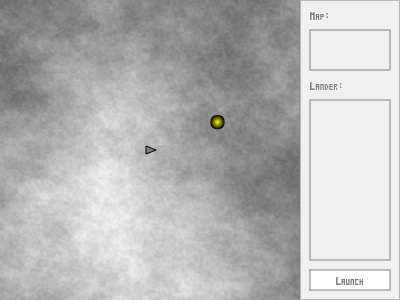
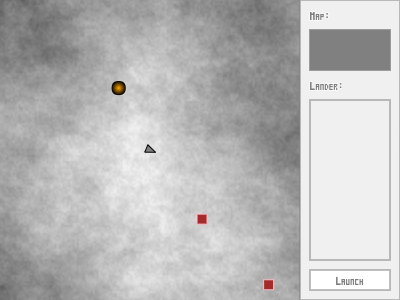
Fixed bugs with planet surface and station docks.  Updated screenshots.

diff --git a/Source/ShipComponentDefn.js b/Source/ShipComponentDefn.js
@@ -1,9 +1,9 @@
 
-function ShipComponentDefn(name, value, applyToPlayer)
+function ShipComponentDefn(name, value, applyToFlagship)
 {
 	this.name = name;
 	this.value = value;
-	this.applyToPlayer = applyToPlayer;
+	this.applyToFlagship = applyToFlagship;
 }
 {
 	ShipComponentDefn.Instances = function()
@@ -18,7 +18,7 @@ function ShipComponentDefn(name, value, applyToPlayer)
 
 	function ShipComponentDefn_Instances()
 	{
-		var noEffect = function applyToPlayer(player) {};
+		var noEffect = function applyToFlagship(player) {};
 
 		this.CargoHold = new ShipComponentDefn("Cargo Hold", 100, noEffect);
 		this.CrewHabitat = new ShipComponentDefn("Crew Habitat", 100, noEffect);
@@ -26,7 +26,7 @@ function ShipComponentDefn(name, value, applyToPlayer)
 		(
 			"Fuel Tank",
 			100, // value
-			function applyToPlayer(player) { player._fuelMax += 100; }
+			function applyToFlagship(player) { player._fuelMax += 100; }
 		);
 		this.IonCannon = new ShipComponentDefn("Ion Cannon", 100, noEffect);
 		this.FusionThruster = new ShipComponentDefn("Fusion Thruster", 100, noEffect);

diff --git a/Source/Player.js b/Source/Player.js
@@ -24,26 +24,6 @@ function Player(name, credit, flagship, factionsKnownNames, shipGroup)
 		return this.flagship.componentNames.length + "/" + this.flagship.componentsMax;
 	}
 
-	Player.prototype.fuelCurrentOverMax = function()
-	{
-		return this.fuel + "/" + this.fuelMax();
-	}
-
-	Player.prototype.fuelMax = function()
-	{
-		if (this._fuelMax == null)
-		{
-			this._fuelMax = 0;
-			var components = this.flagship.components();
-			for (var i = 0; i < components.length; i++)
-			{
-				var component = components[i];
-				component.applyToPlayer(this);
-			}
-		}
-		return this._fuelMax;
-	}
-
 	Player.prototype.shipsCurrentOverMax = function()
 	{
 		return this.shipGroup.ships.length + "/" + this.shipsMax;

diff --git a/Source/PlaceStationDock.js b/Source/PlaceStationDock.js
@@ -128,7 +128,7 @@ function PlaceStationDock(world, placeStation)
 			(containerLeftSize.y - labelSize.y - buttonSizeShips.y - marginSize.y * 4)
 		); // size
 
-		var shipComponentsInstalled = player.flagshipComponents();
+		var shipComponentsInstalled = player.flagship.components();
 
 		var shipComponentDefnsAvailable = ShipComponentDefn.Instances()._All;
 
@@ -586,7 +586,7 @@ function PlaceStationDock(world, placeStation)
 					new Coords(marginSize.x * 3.5, marginSize.y * 2 + labelSize.y),
 					labelSize,
 					false, // isTextCentered
-					new DataBinding(player, "fuelCurrentOverMax()"),
+					new DataBinding(player, "flagship.fuelCurrentOverMax()"),
 					fontHeightShort
 				),
 

diff --git a/Source/Flagship.js b/Source/Flagship.js
@@ -29,4 +29,24 @@ function Flagship(name, componentsMax, componentNames, numberOfLanders, fuel, it
 
 		return this._components;
 	}
+
+	Flagship.prototype.fuelCurrentOverMax = function()
+	{
+		return this.fuel + "/" + this.fuelMax();
+	}
+
+	Flagship.prototype.fuelMax = function()
+	{
+		if (this._fuelMax == null)
+		{
+			this._fuelMax = 0;
+			var components = this.components();
+			for (var i = 0; i < components.length; i++)
+			{
+				var component = components[i];
+				component.applyToFlagship(this);
+			}
+		}
+		return this._fuelMax;
+	}
 }

diff --git a/Source/PlacePlanetSurface.js b/Source/PlacePlanetSurface.js
@@ -106,7 +106,7 @@ function PlacePlanetSurface(world, planet, placePlanetOrbit)
 	for (var i = 0; i < resources.length; i++)
 	{
 		var resource = resources[i];
-		var entityResource = resource.toEntity(world, place, resourceRadiusBase);
+		var entityResource = resource.toEntity(world, this, resourceRadiusBase);
 		entities.push(entityResource);
 	}
 

diff --git a/Source/PlaceStarsystem.js b/Source/PlaceStarsystem.js
@@ -298,7 +298,7 @@ function PlaceStarsystem(world, starsystem, playerLoc)
 
 	PlaceStarsystem.prototype = Object.create(Place.prototype);
 	PlaceStarsystem.prototype.constructor = Place;
-	
+
 	// Place overrides
 
 	PlaceStarsystem.prototype.draw_FromSuperclass = PlaceStarsystem.prototype.draw;

diff --git a/Source/Combat.js b/Source/Combat.js
@@ -56,7 +56,7 @@ function Combat(size, encounter, shipGroups)
 		for (var i = 0; i < this.shipGroups.length; i++)
 		{
 			var shipGroup = this.shipGroups[i];
-			shipGroup.initialize(world);
+			shipGroup.initialize(null, world);
 		}
 		return this;
 	}

diff --git a/Source/Resource.js b/Source/Resource.js
@@ -40,7 +40,7 @@ function Resource(defnName, quantity, pos)
 				new Drawable(resourceVisual)
 			]
 		);
-		
+
 		return resourceEntity;
 	}
 }
